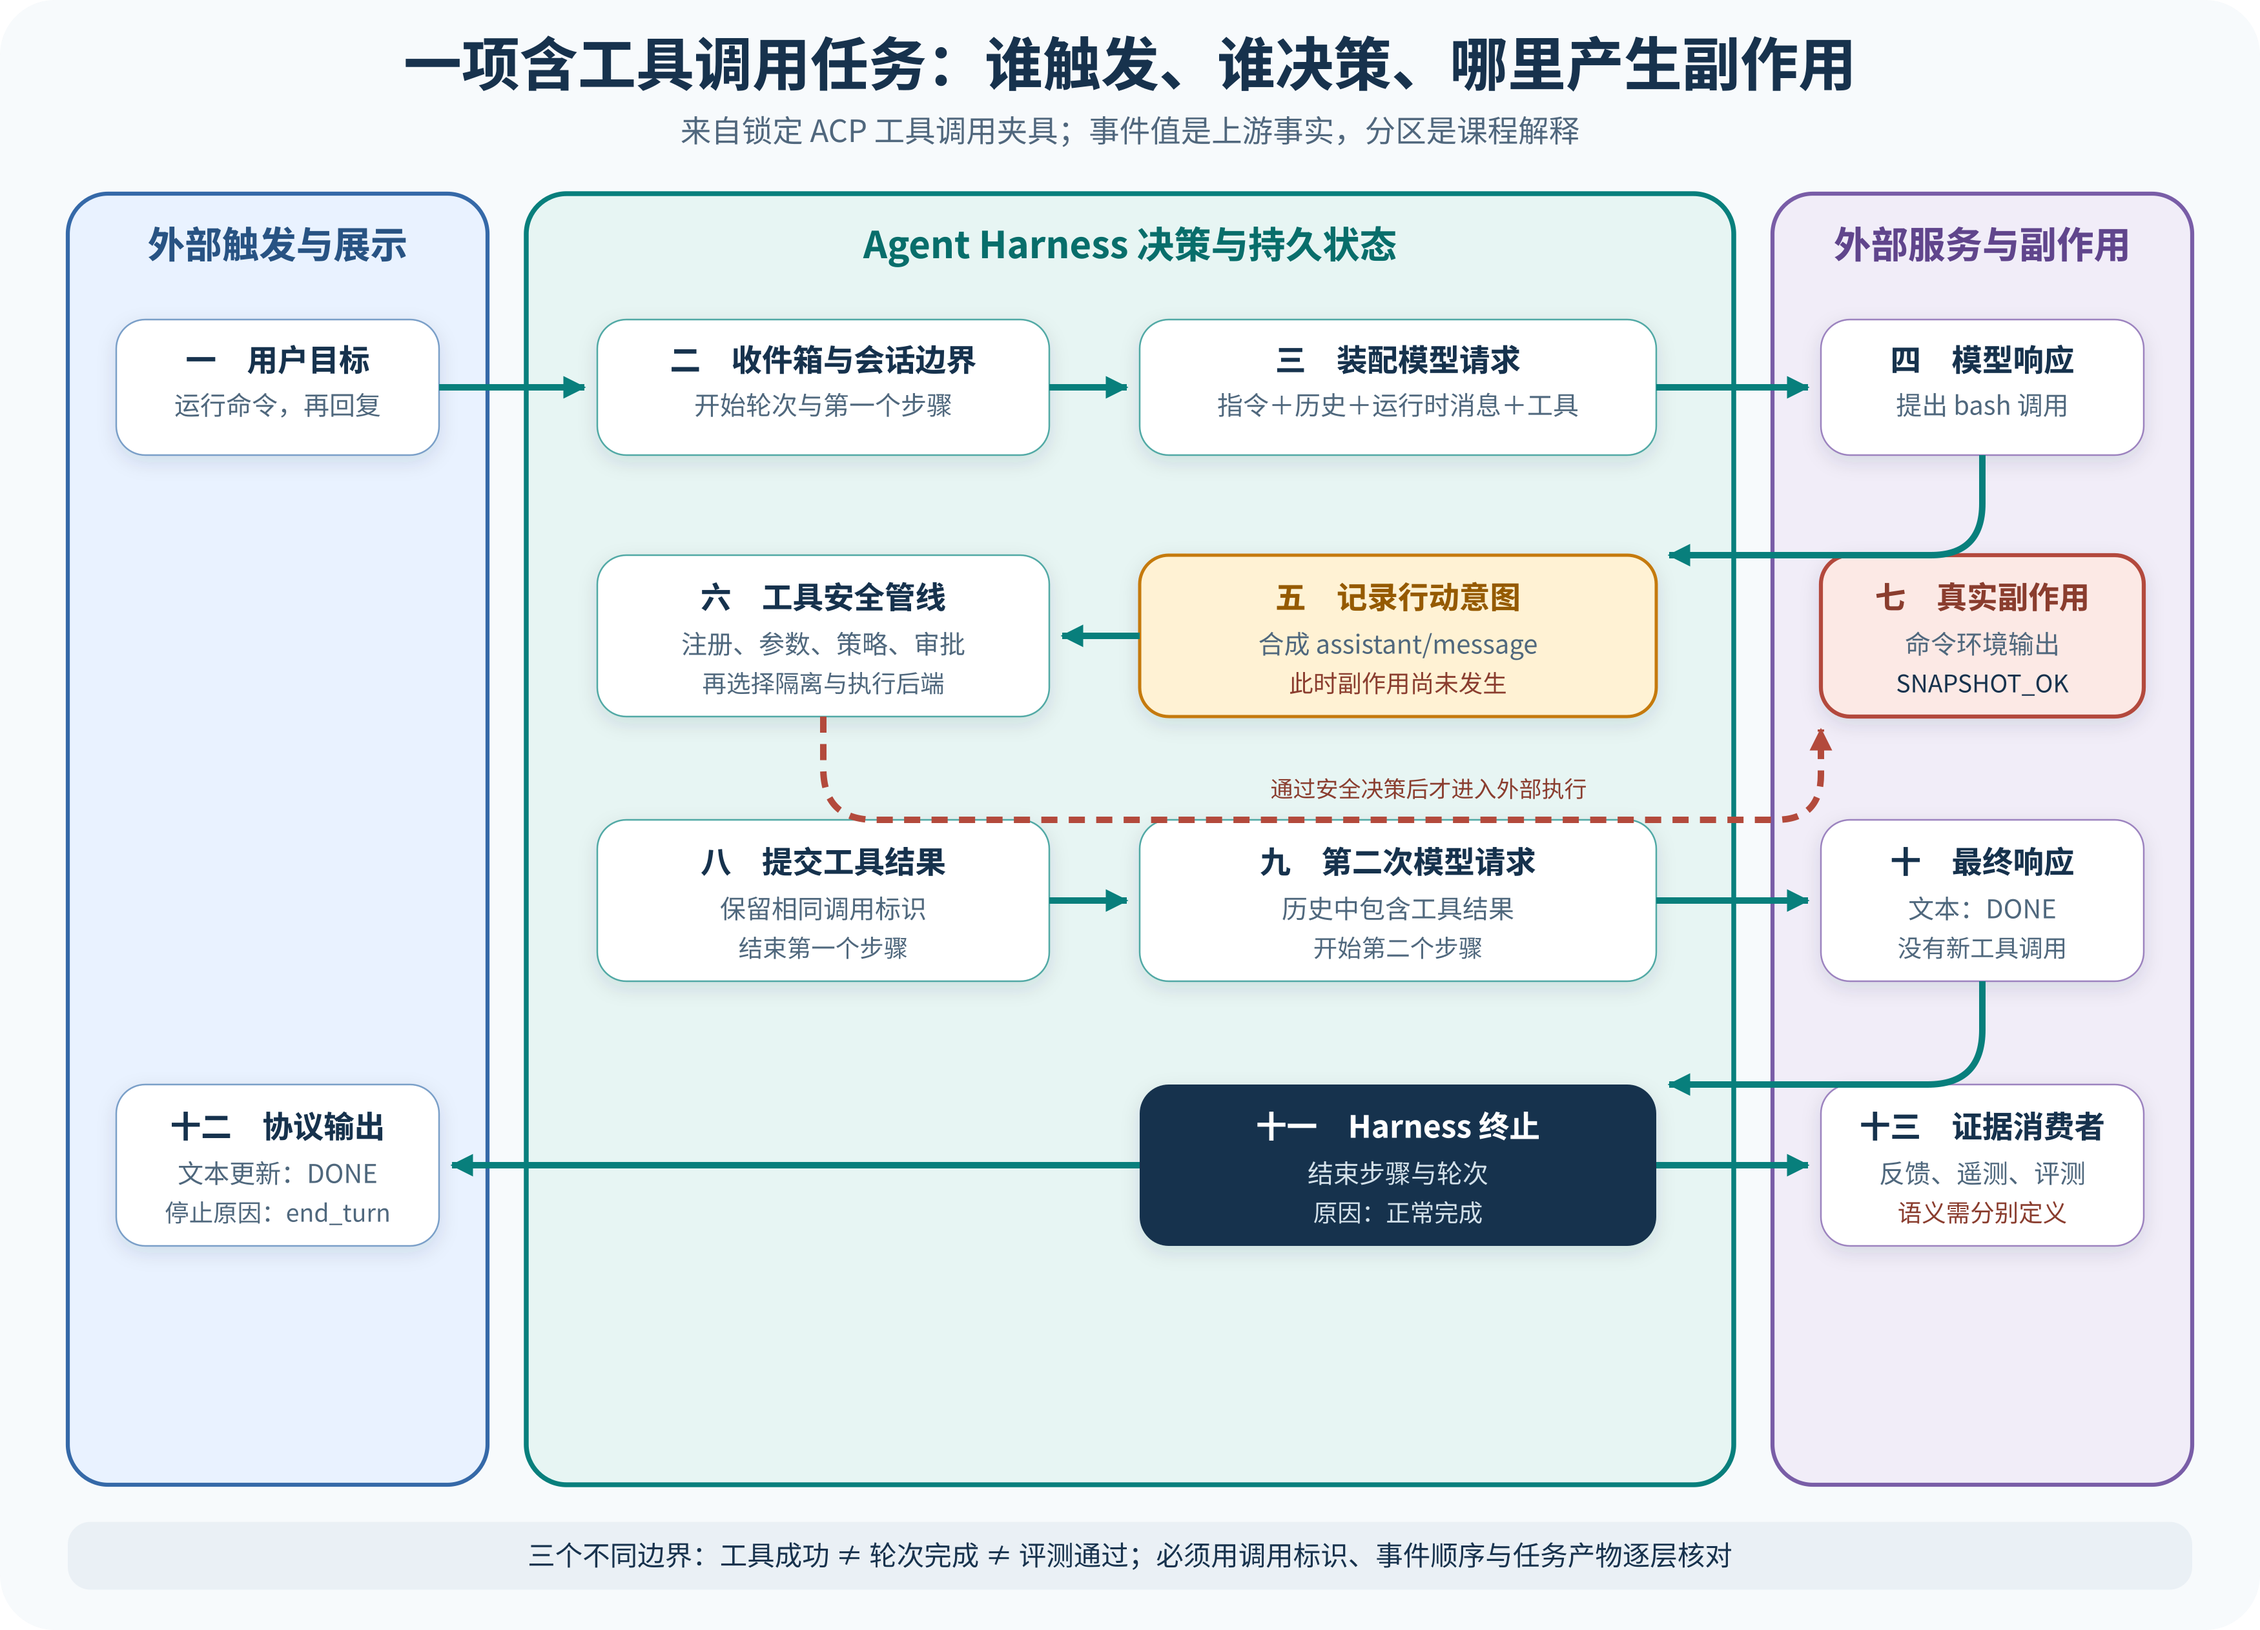
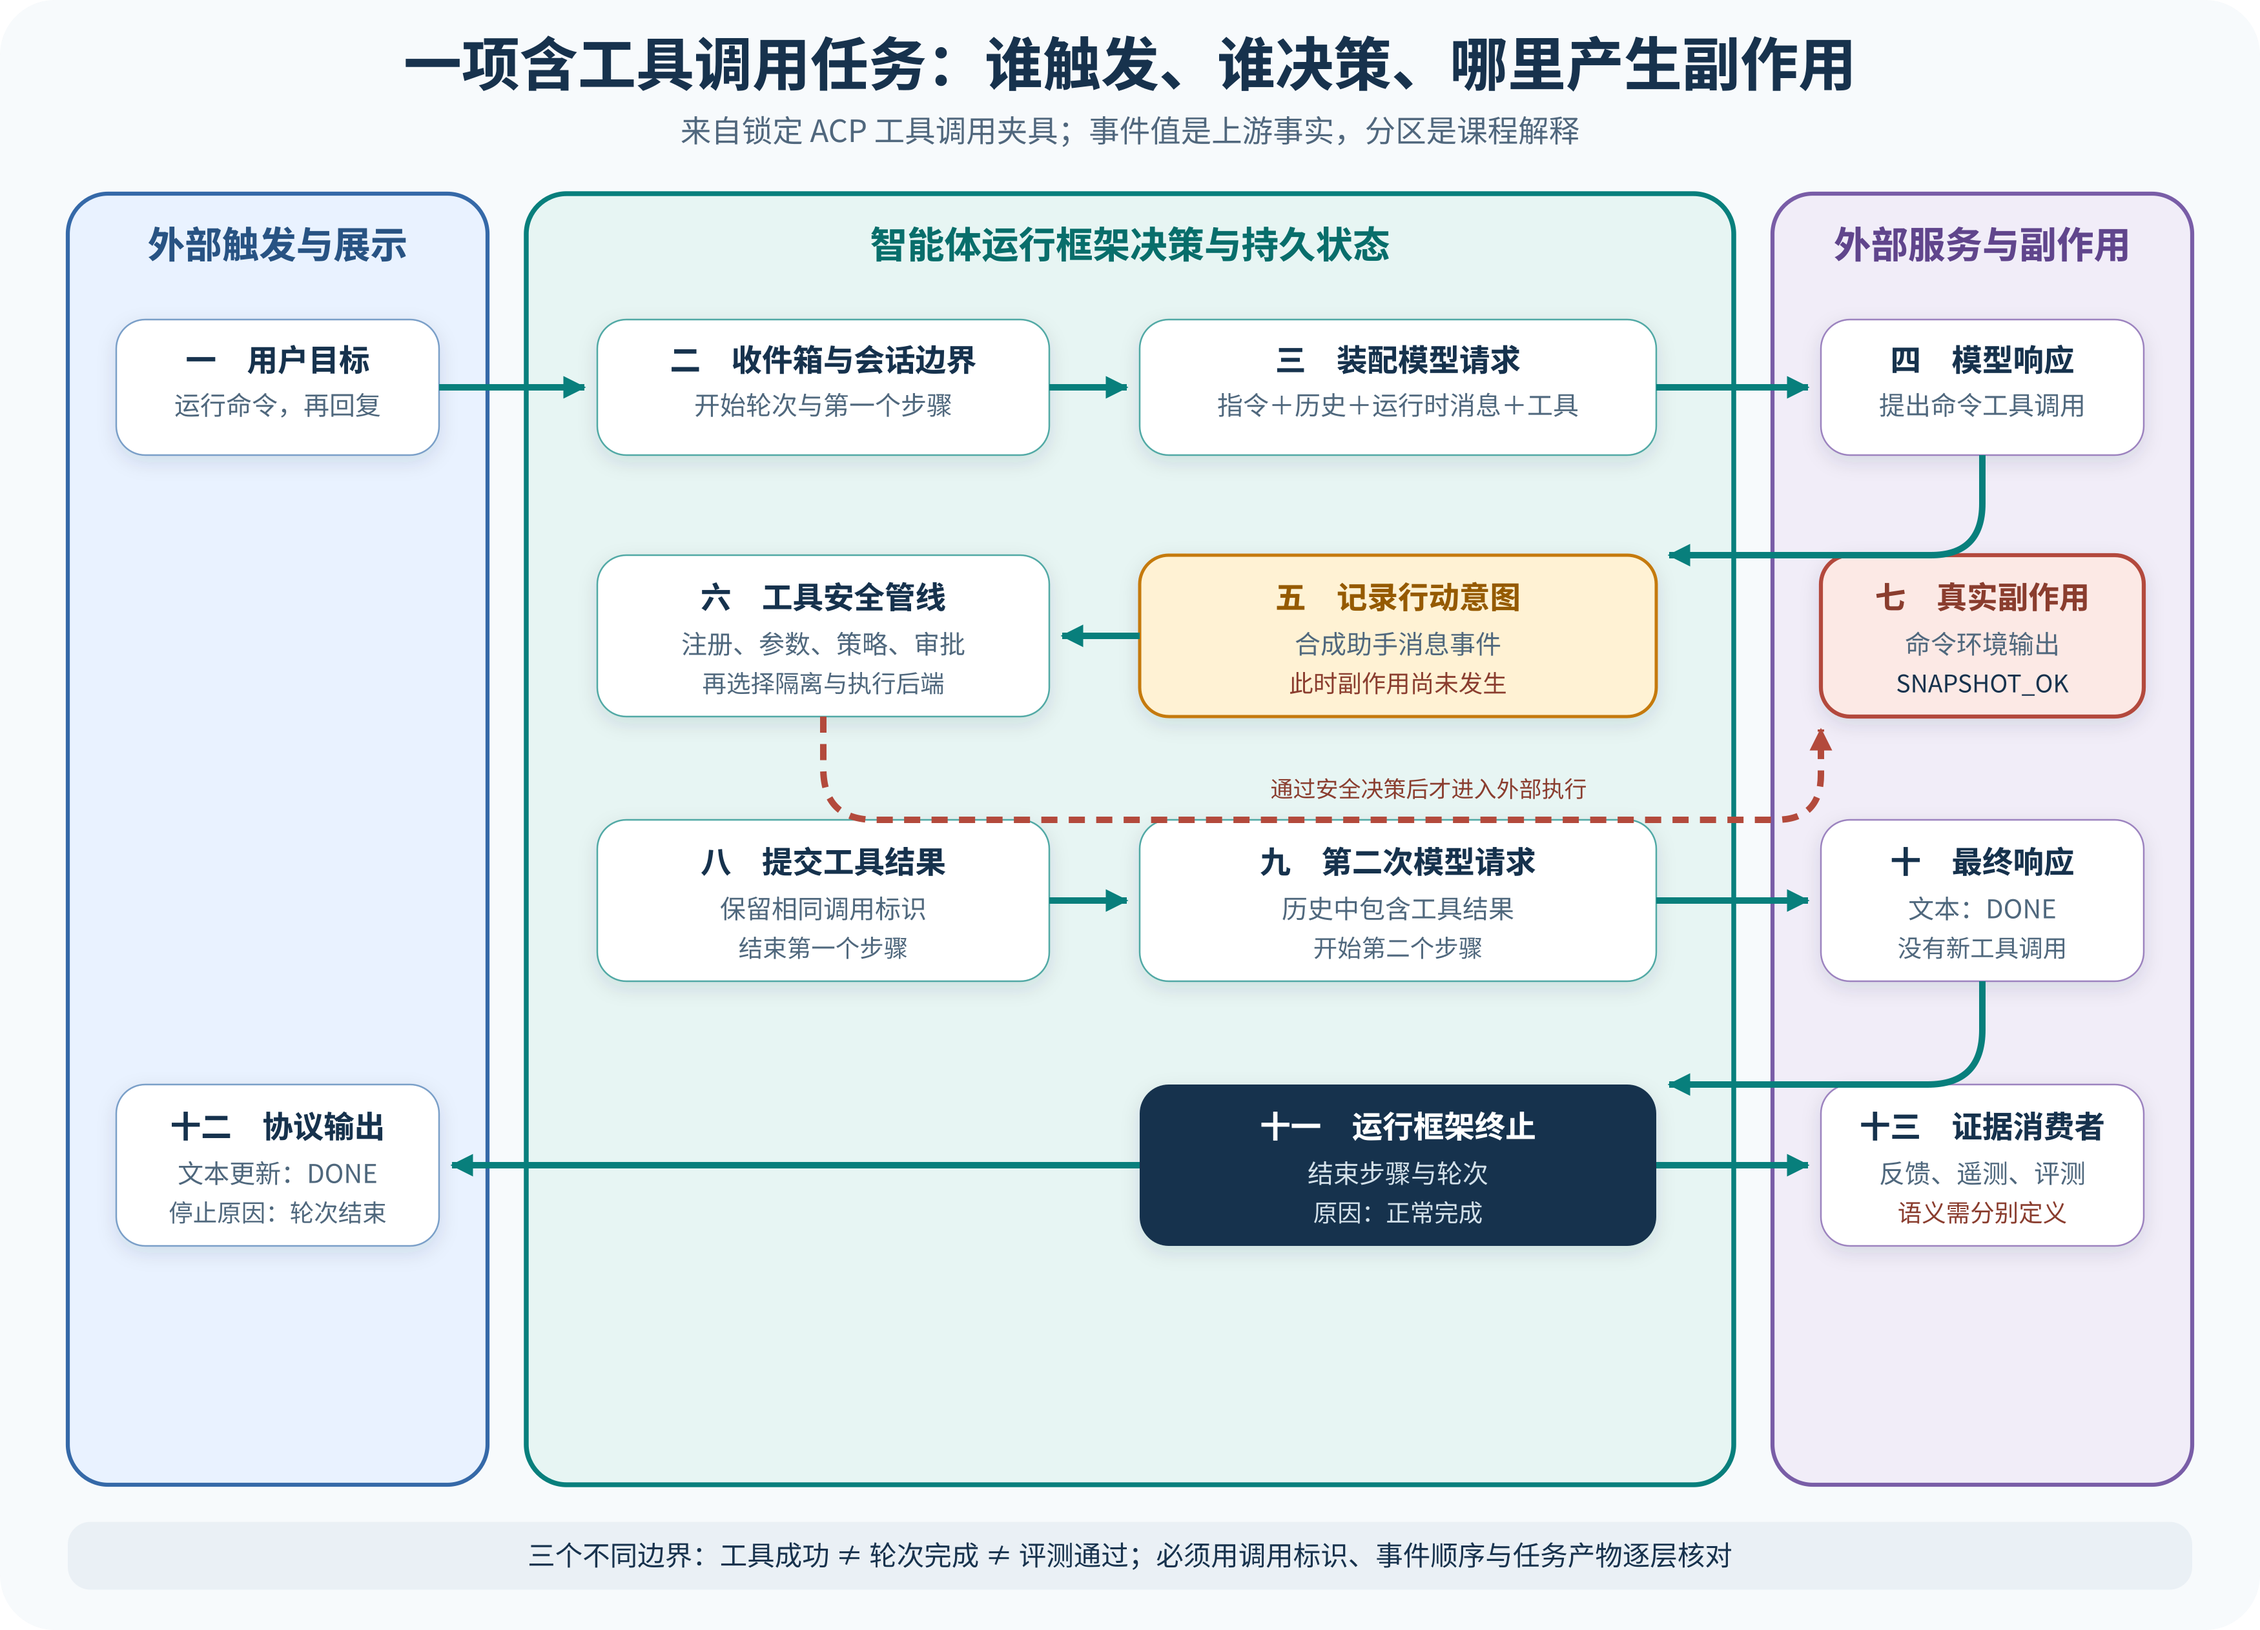
chore(review): 完成阶段 3A DSH 主线复核

diff --git a/specs/2026-08-24-phase-3a-dsh-implementation-plan.md b/specs/2026-08-24-phase-3a-dsh-implementation-plan.md
@@ -132,13 +132,13 @@
 
 ### Task 12：阶段 3A 全量对抗复核
 
-- [ ] 从已提交基线运行 Node 24 聚合检查和全部来源验证。
-- [ ] 逐篇审计真实输入输出、调用链、源码锚点、默认条件、失败语义和自检答案。
-- [ ] 打开全部 DSH 正式图，检查中文、截断、箭头、颜色依赖和证据绑定。
-- [ ] 主动寻找：旧文直接搬运、设计记录数量崇拜、单个平台外推、安全边界折叠、反馈等同奖励、Benchmark 等同发布评测。
-- [ ] 修复全部高严重度发现，记录中低风险后续项。
-- [ ] 新建阶段复核记录，勾选总路线阶段 3A，提交后再跑聚合检查。
-- [ ] 提交：`chore(review): 完成阶段 3A DSH 主线复核`。
+- [x] 从已提交基线运行 Node 24 聚合检查和全部来源验证。
+- [x] 逐篇审计真实输入输出、调用链、源码锚点、默认条件、失败语义和自检答案。
+- [x] 打开全部 DSH 正式图，检查中文、截断、箭头、颜色依赖和证据绑定。
+- [x] 主动寻找：旧文直接搬运、设计记录数量崇拜、单个平台外推、安全边界折叠、反馈等同奖励、Benchmark 等同发布评测。
+- [x] 修复全部高严重度发现，记录中低风险后续项。
+- [x] 新建阶段复核记录，勾选总路线阶段 3A，提交后再跑聚合检查。
+- [x] 提交：`chore(review): 完成阶段 3A DSH 主线复核`。
 
 ## 阶段完成证据
 

diff --git a/README.md b/README.md
@@ -45,7 +45,7 @@
 
 | 主线 | 主要证据面 | 将回答的核心问题 | 当前状态 |
 | --- | --- | --- | --- |
-| DSH | DeepSeek Harness 锁定源码与上游测试 | 多包 TypeScript Harness 怎样组织模型、工具、会话、Code Mode 与评测能力 | `reviewed` |
+| DSH | DeepSeek Harness 锁定源码与上游测试 | 多包 TypeScript Harness 怎样组织模型、工具、会话、Code Mode、反馈与评测接入 | `reviewed` |
 | Codex | Rust 核心源码、协议、测试与官方文档 | CLI、工具、沙箱、审批、会话、压缩和多表面怎样连接 | `outline` |
 | Gemini CLI | Core/CLI 源码、Policy、Safety、Confirmation 与测试 | 工具调度、策略确认、会话和扩展怎样形成完整执行链 | `outline` |
 | Claude | 官方公开文档、Python SDK、TypeScript SDK 与示例 | Claude Code 的公开契约与 Agent SDK 的可见实现边界分别在哪里 | `outline` |

diff --git a/docs/00-start-here.md b/docs/00-start-here.md
@@ -32,7 +32,7 @@ sources: []
 
 | 主线 | 入口证据 | 独特研究重点 | 当前状态 |
 | --- | --- | --- | --- |
-| DSH | TypeScript 多包源码与测试 | 上下文、KV-Cache、Code Mode、工具、会话和内置评测如何协作 | `reviewed` |
+| DSH | TypeScript 多包源码与测试 | 上下文、KV-Cache、Code Mode、工具、会话、反馈和评测接入如何协作 | `reviewed` |
 | Codex | Rust 核心、协议、测试和官方文档 | 多表面入口、工具策略、沙箱审批、压缩与恢复怎样连接 | `outline` |
 | Gemini CLI | Core/CLI、Policy、Safety 与 Confirmation 源码 | 策略确认、工具调度、会话和扩展的分层关系 | `outline` |
 | Claude | 官方公开文档与 Python/TypeScript SDK | 闭源产品契约和开源 SDK 实现的证据边界 | `outline` |

diff --git a/specs/2026-08-23-agent-harness-internals-program-plan.md b/specs/2026-08-23-agent-harness-internals-program-plan.md
@@ -17,7 +17,7 @@
 - [x] 阶段 2：共同基础课程。
   - 计划：`specs/2026-08-23-phase-2-foundations-implementation-plan.md`
   - 验收：六篇基础课程达到 `reviewed`，图示、证据、中文和内容门禁通过。
-- [ ] 阶段 3A：DeepSeek Harness 主线。
+- [x] 阶段 3A：DeepSeek Harness 主线。
   - 计划：`specs/2026-08-24-phase-3a-dsh-implementation-plan.md`
   - 验收：现有长文逐篇重审，完整任务链、评测接口、图示和实验通过。
 - [ ] 阶段 3B：Codex 主线。
